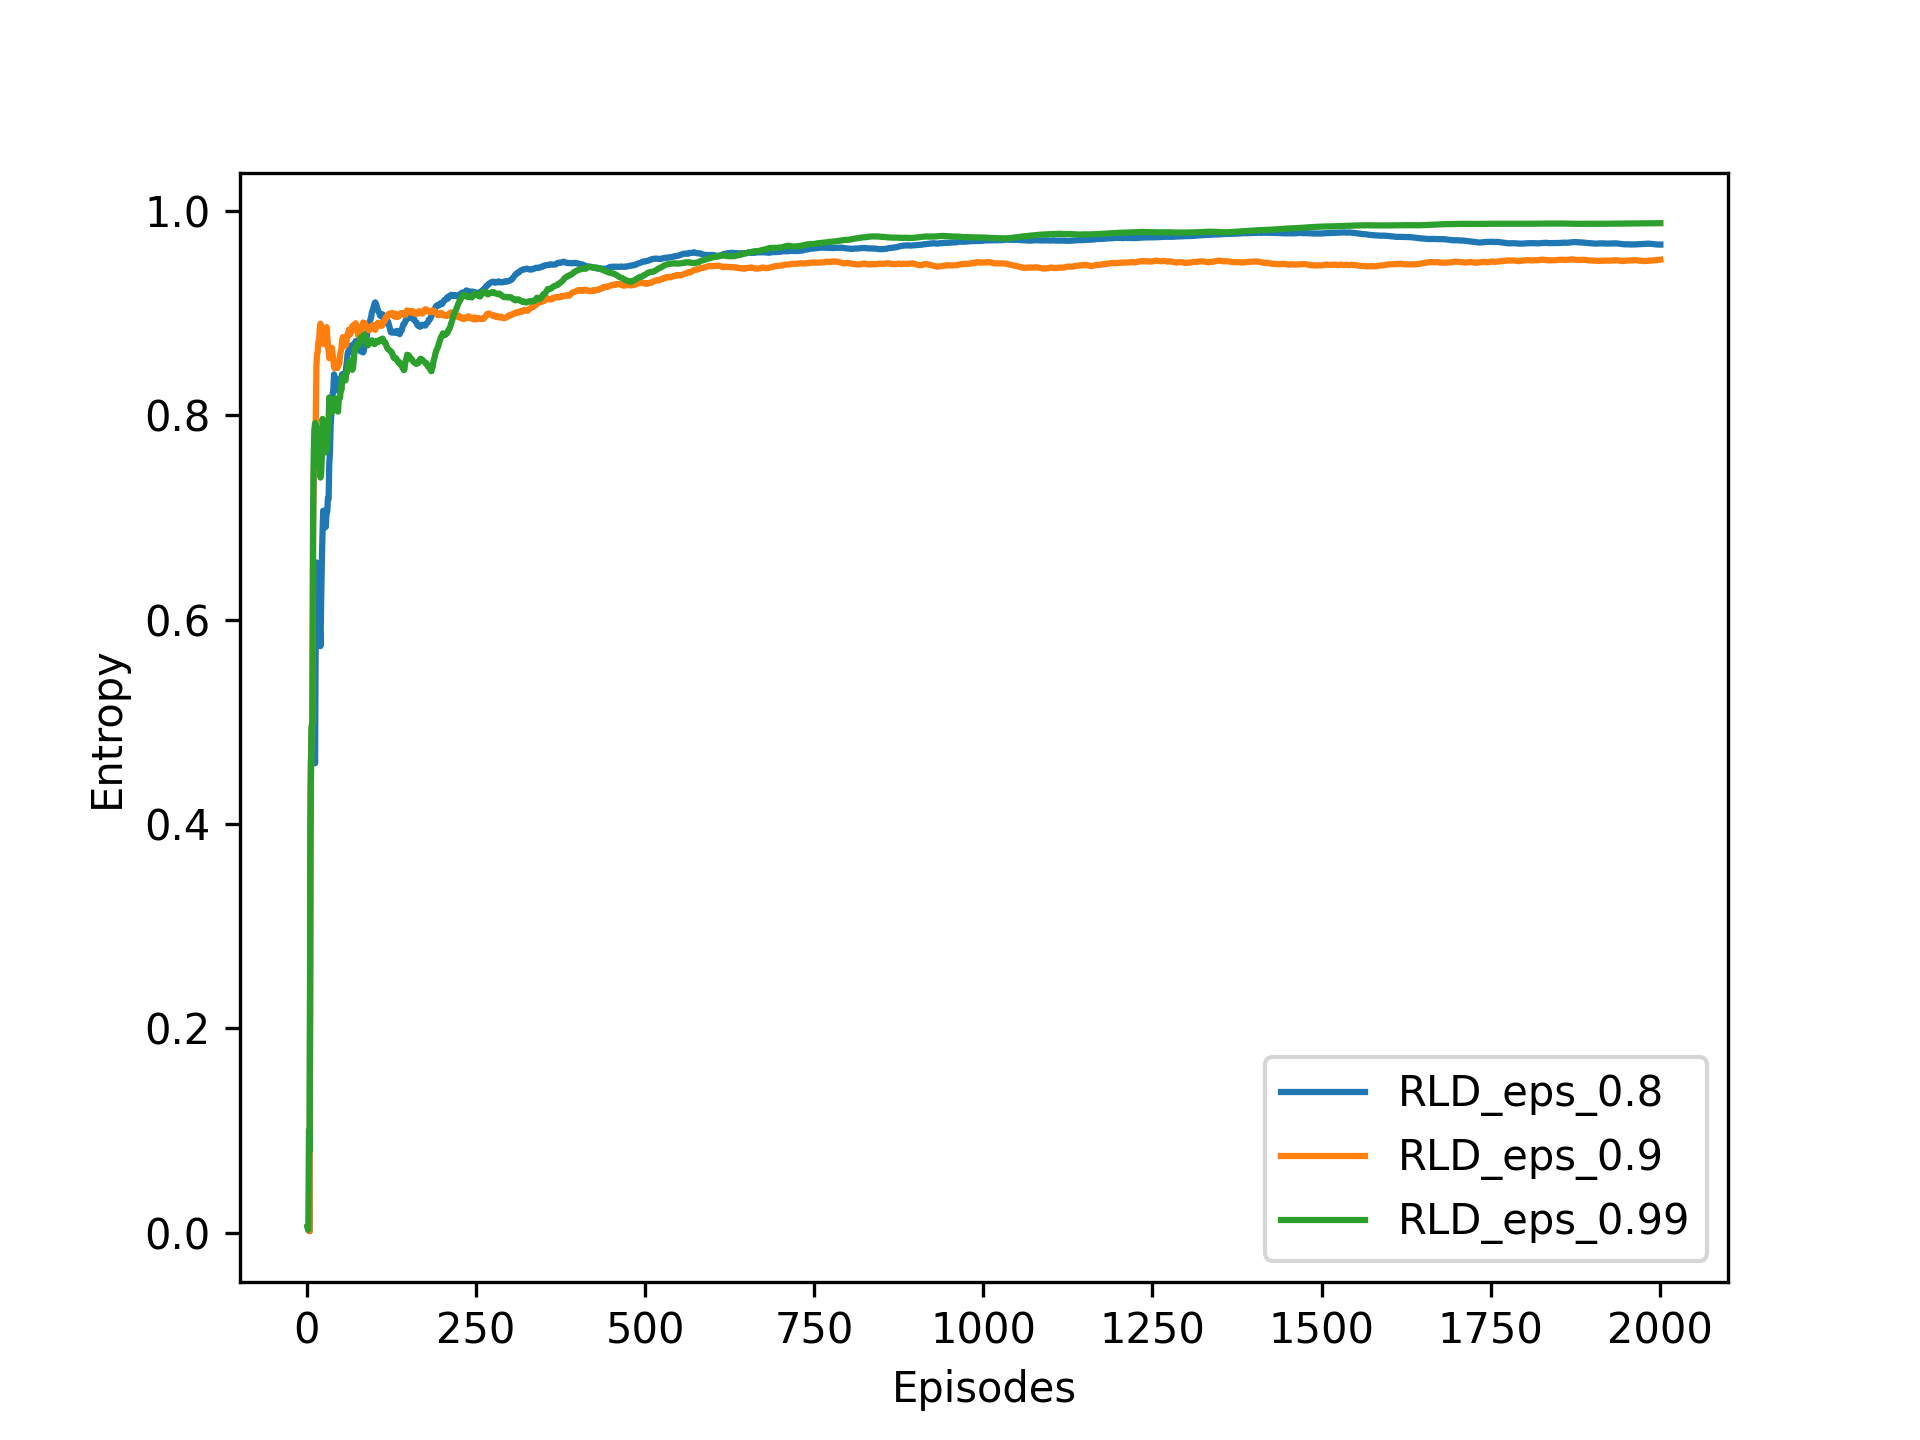
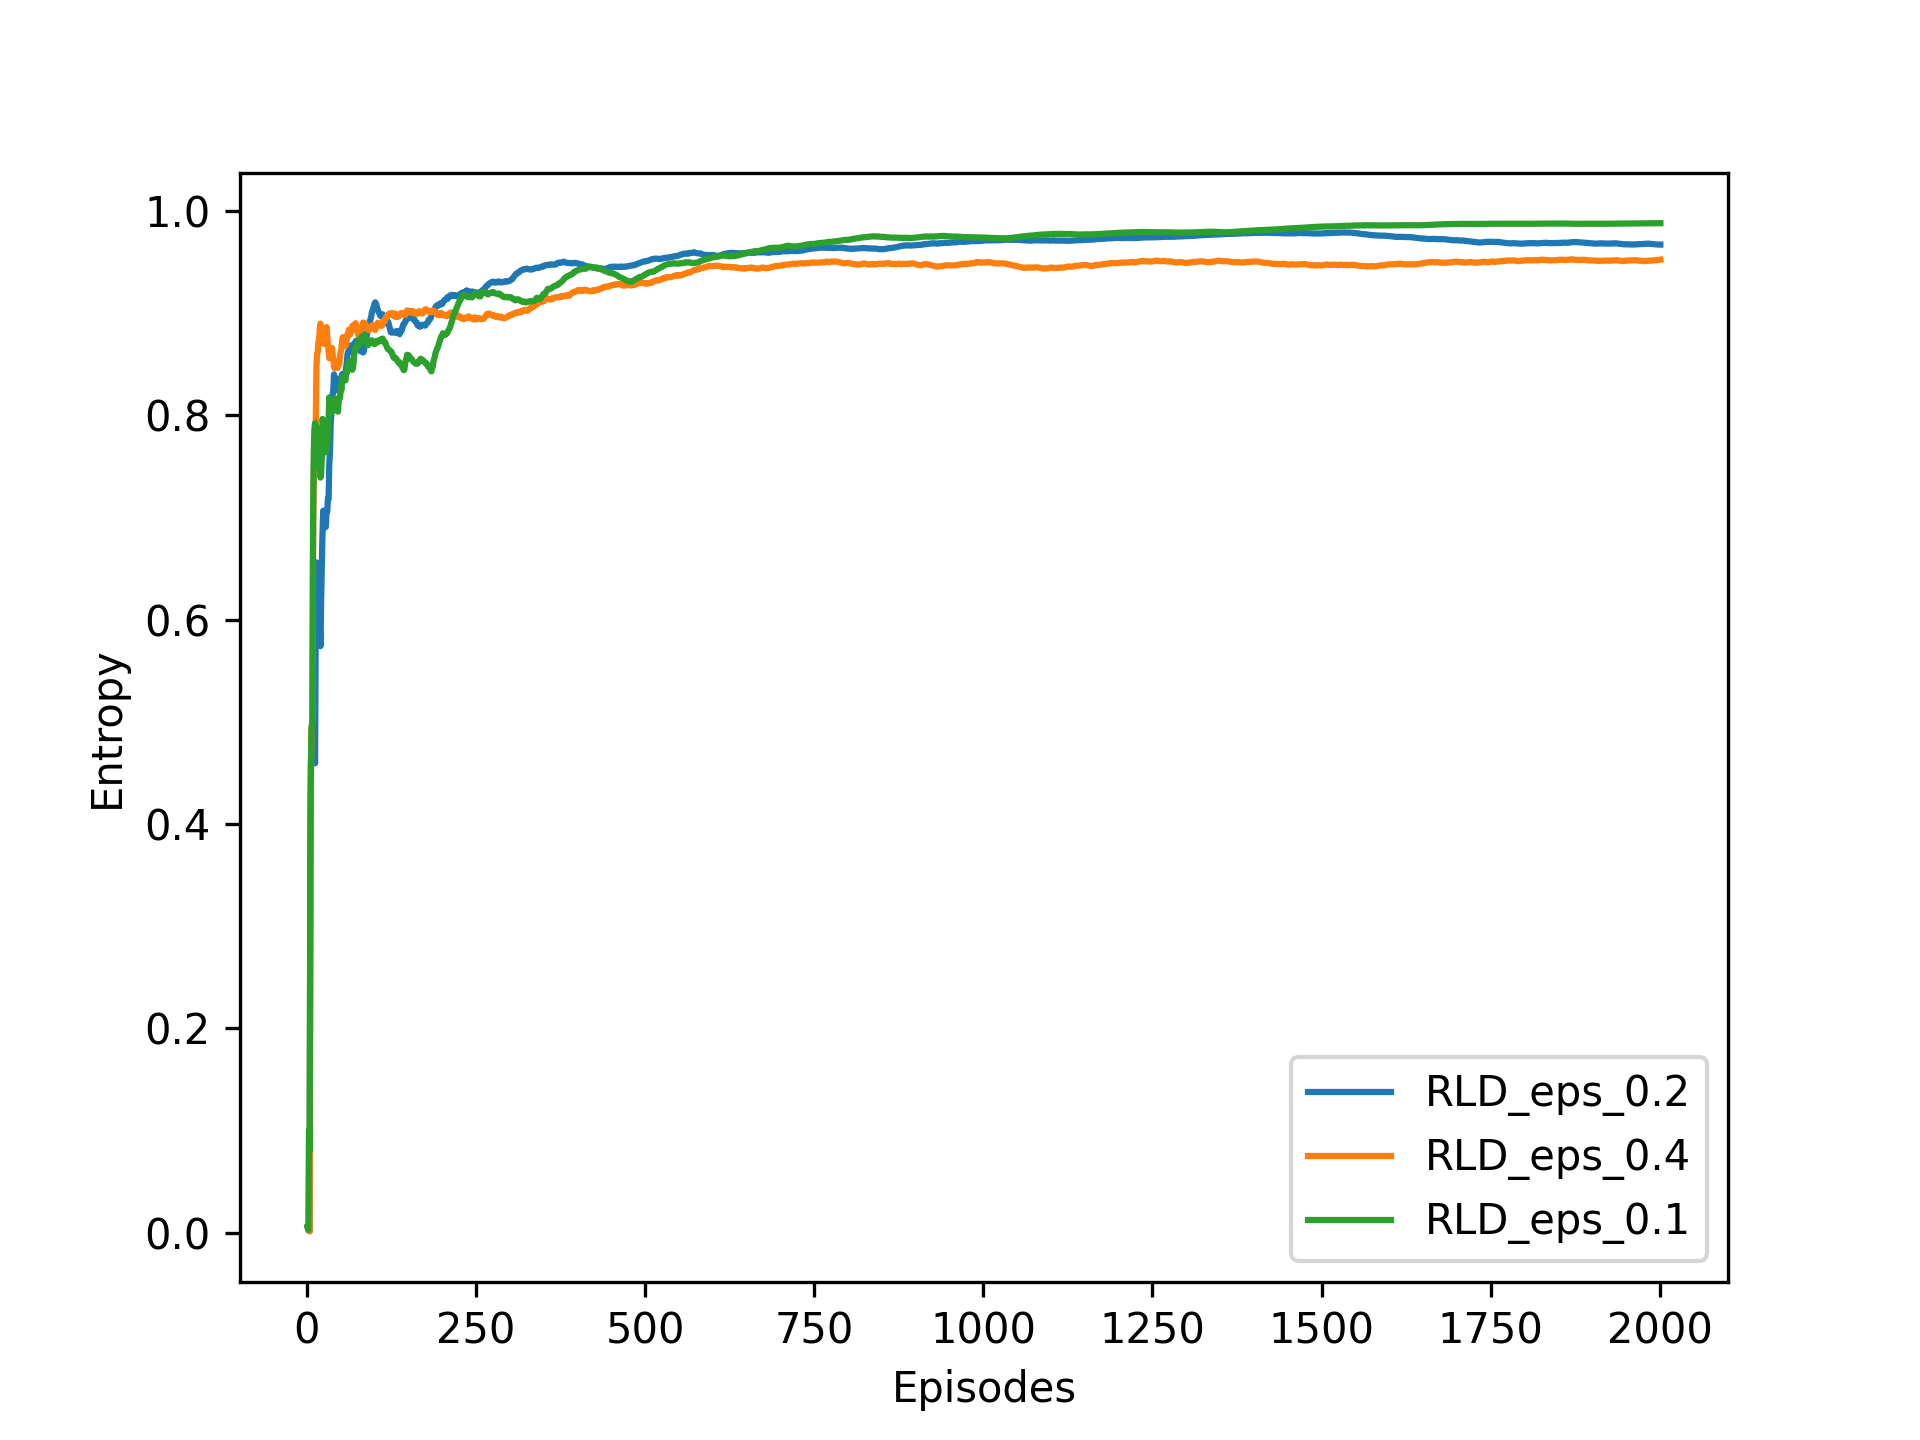
.

Changed region(s): [[0.7188, 0.75, 0.875, 0.875], [0.6562, 0.7188, 0.6875, 0.875]]

diff --git a/P2/plot_sensitivity.py b/P2/plot_sensitivity.py
@@ -133,36 +133,36 @@ plt.close()
 
 
 
-plt.plot(episodes4, diss4, label='RLD_eps_0.8')
-plt.plot(episodes5, diss5, label='RLD_eps_0.9')
-plt.plot(episodes6, diss6, label='RLD_eps_0.99')
+plt.plot(episodes4, diss4, label='RLD_eps_0.2')
+plt.plot(episodes5, diss5, label='RLD_eps_0.4')
+plt.plot(episodes6, diss6, label='RLD_eps_0.1')
 plt.legend()
 plt.xlabel('Episodes')
 plt.ylabel('Dissonance')
 plt.savefig('plots/Dissonance_eps.png', dpi=300)
 plt.close()
 
-plt.plot(episodes4, entropy4, label='RLD_eps_0.8')
-plt.plot(episodes5, entropy5, label='RLD_eps_0.9')
-plt.plot(episodes6, entropy6, label='RLD_eps_0.99')
+plt.plot(episodes4, entropy4, label='RLD_eps_0.2')
+plt.plot(episodes5, entropy5, label='RLD_eps_0.4')
+plt.plot(episodes6, entropy6, label='RLD_eps_0.1')
 plt.legend()
 plt.xlabel('Episodes')
 plt.ylabel('Entropy')
 plt.savefig('plots/Entropy_eps.png', dpi=300)
 plt.close()
 
-plt.plot(episodes4, vacuity4, label='RLD_eps_0.8')
-plt.plot(episodes5, vacuity5, label='RLD_eps_0.9')
-plt.plot(episodes6, vacuity6, label='RLD_eps_0.99')
+plt.plot(episodes4, vacuity4, label='RLD_eps_0.2')
+plt.plot(episodes5, vacuity5, label='RLD_eps_0.4')
+plt.plot(episodes6, vacuity6, label='RLD_eps_0.1')
 plt.legend()
 plt.xlabel('Episodes')
 plt.ylabel('Vacuity')
 plt.savefig('plots/Vacuity_eps.png', dpi=300)
 plt.close()
 
-plt.plot(episodes4, EMA_filter(reward4), label='RLD_eps_0.8')
-plt.plot(episodes5, EMA_filter(reward5), label='RLD_eps_0.9')
-plt.plot(episodes6, EMA_filter(reward6), label='RLD_eps_0.99')
+plt.plot(episodes4, EMA_filter(reward4), label='RLD_eps_0.2')
+plt.plot(episodes5, EMA_filter(reward5), label='RLD_eps_0.4')
+plt.plot(episodes6, EMA_filter(reward6), label='RLD_eps_0.1')
 plt.legend()
 plt.xlabel('Episodes')
 plt.ylabel('Rewards')
